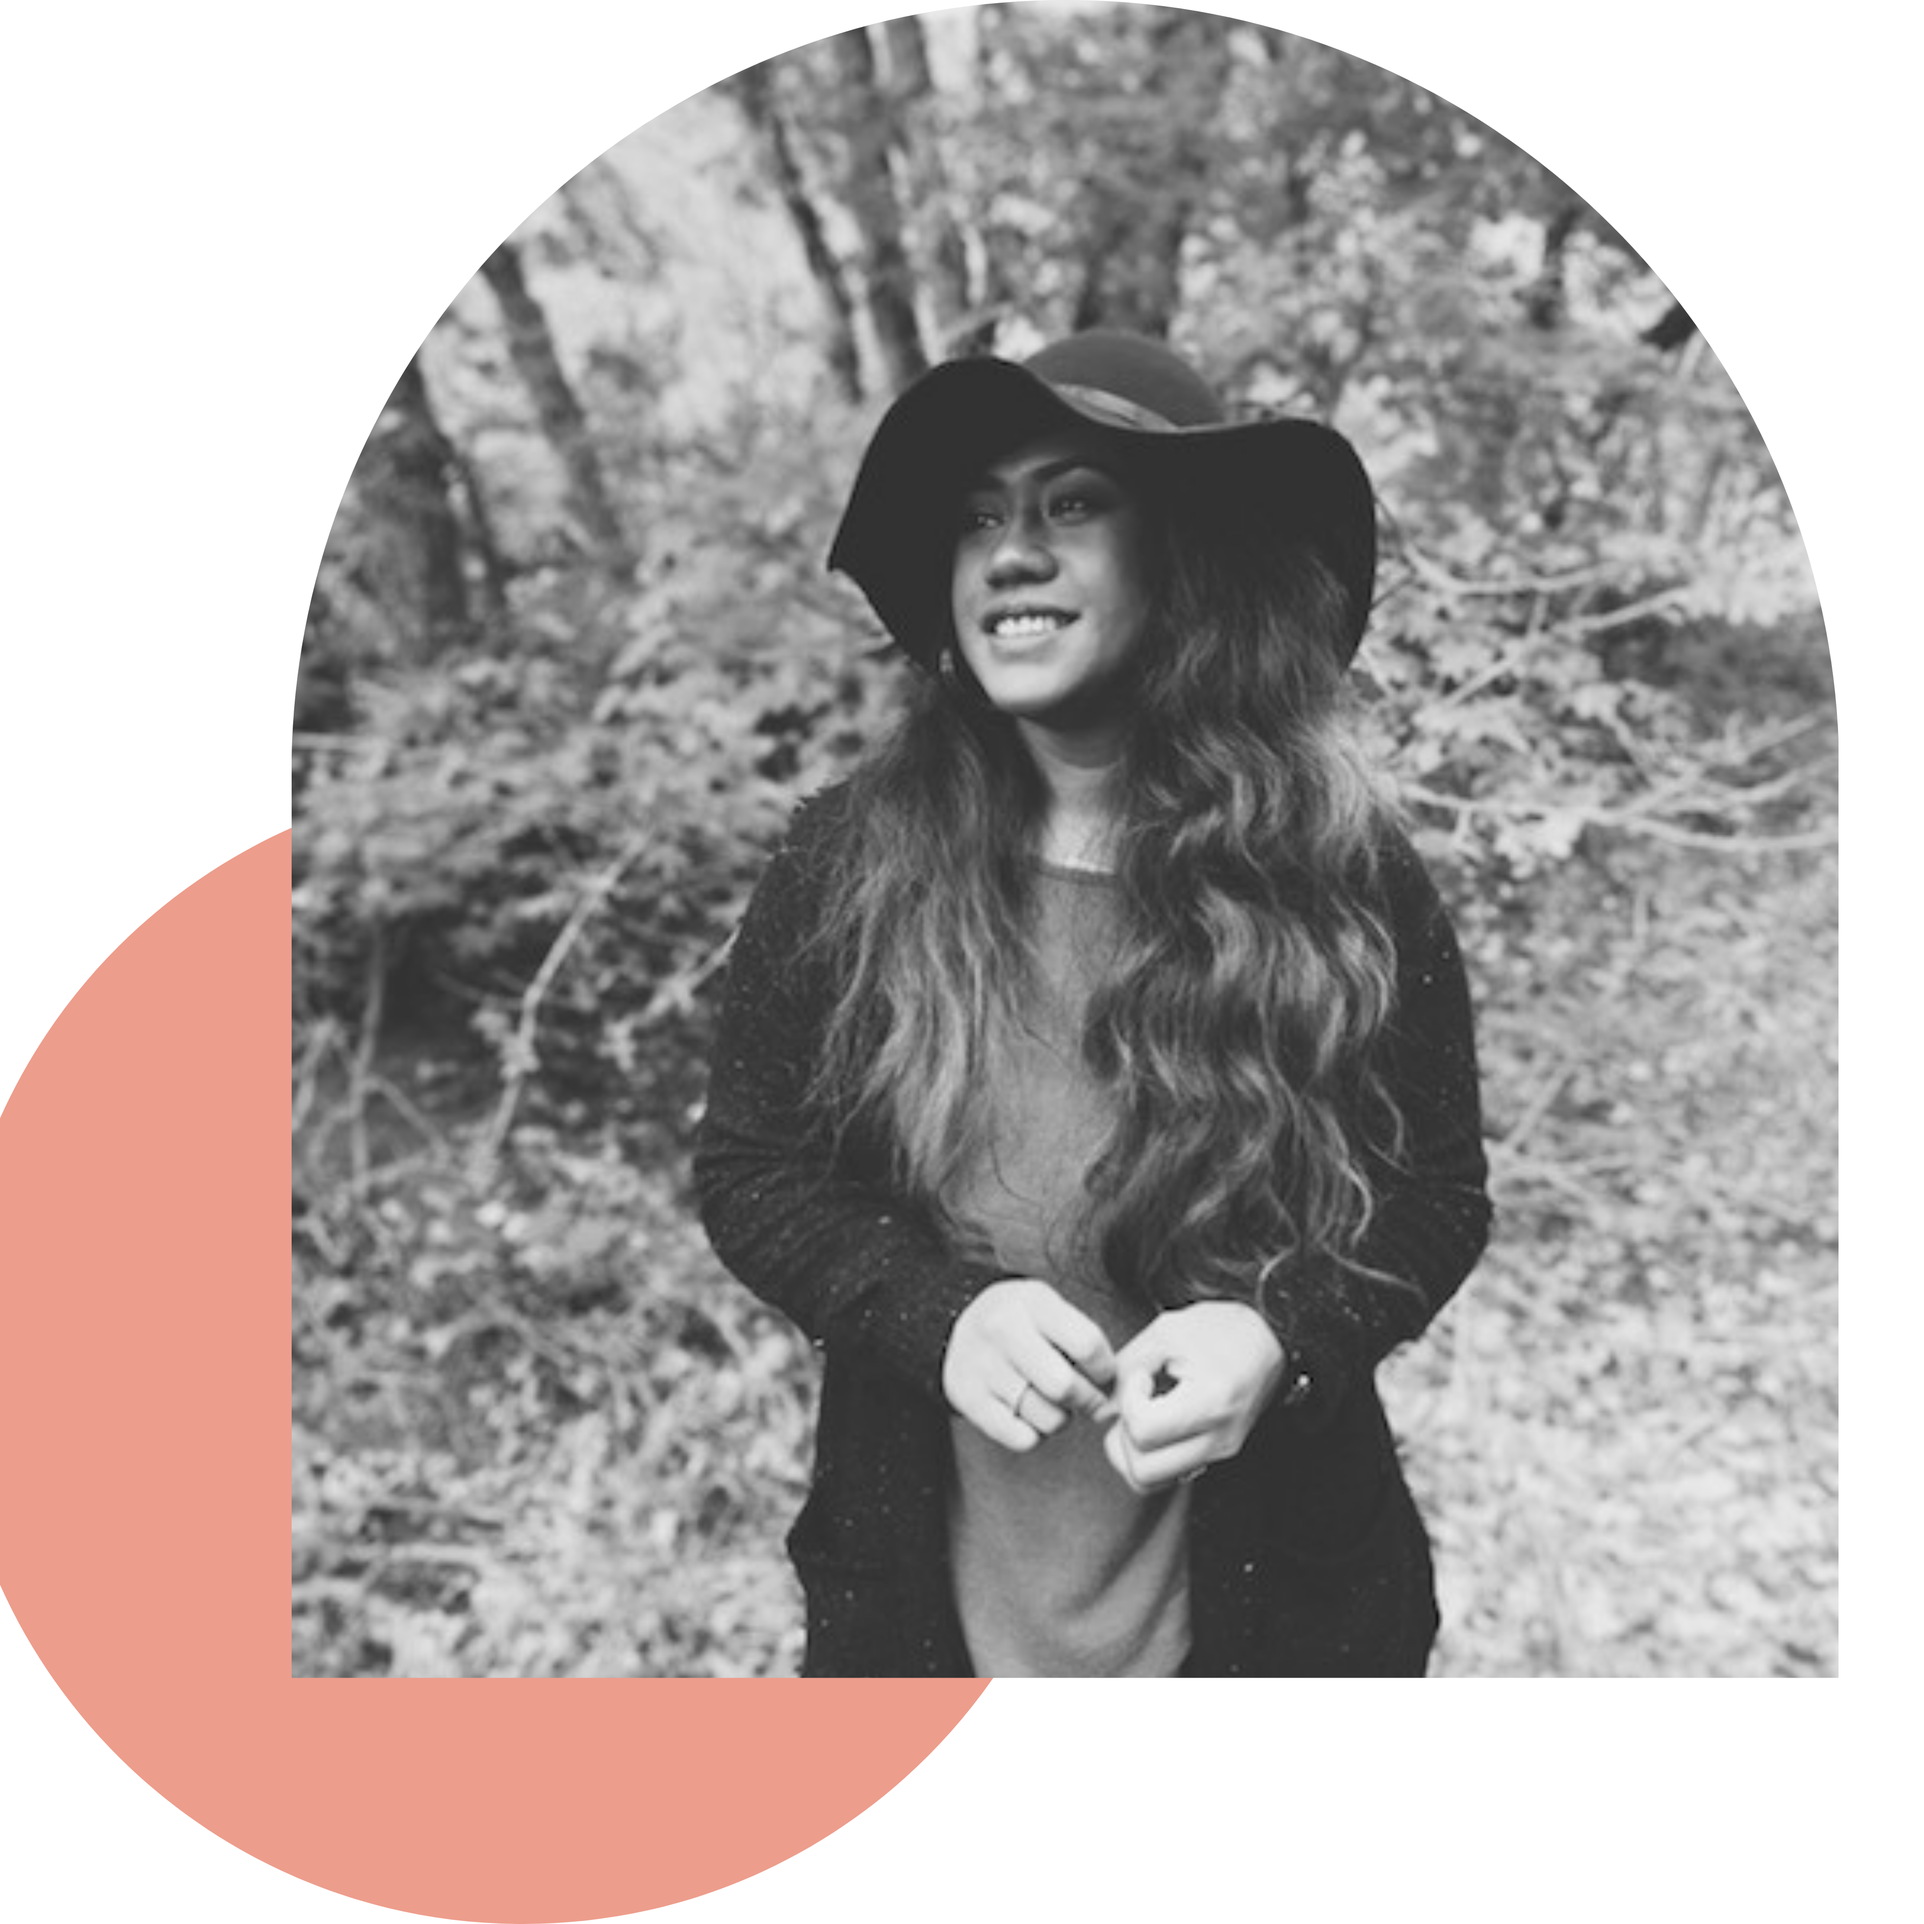
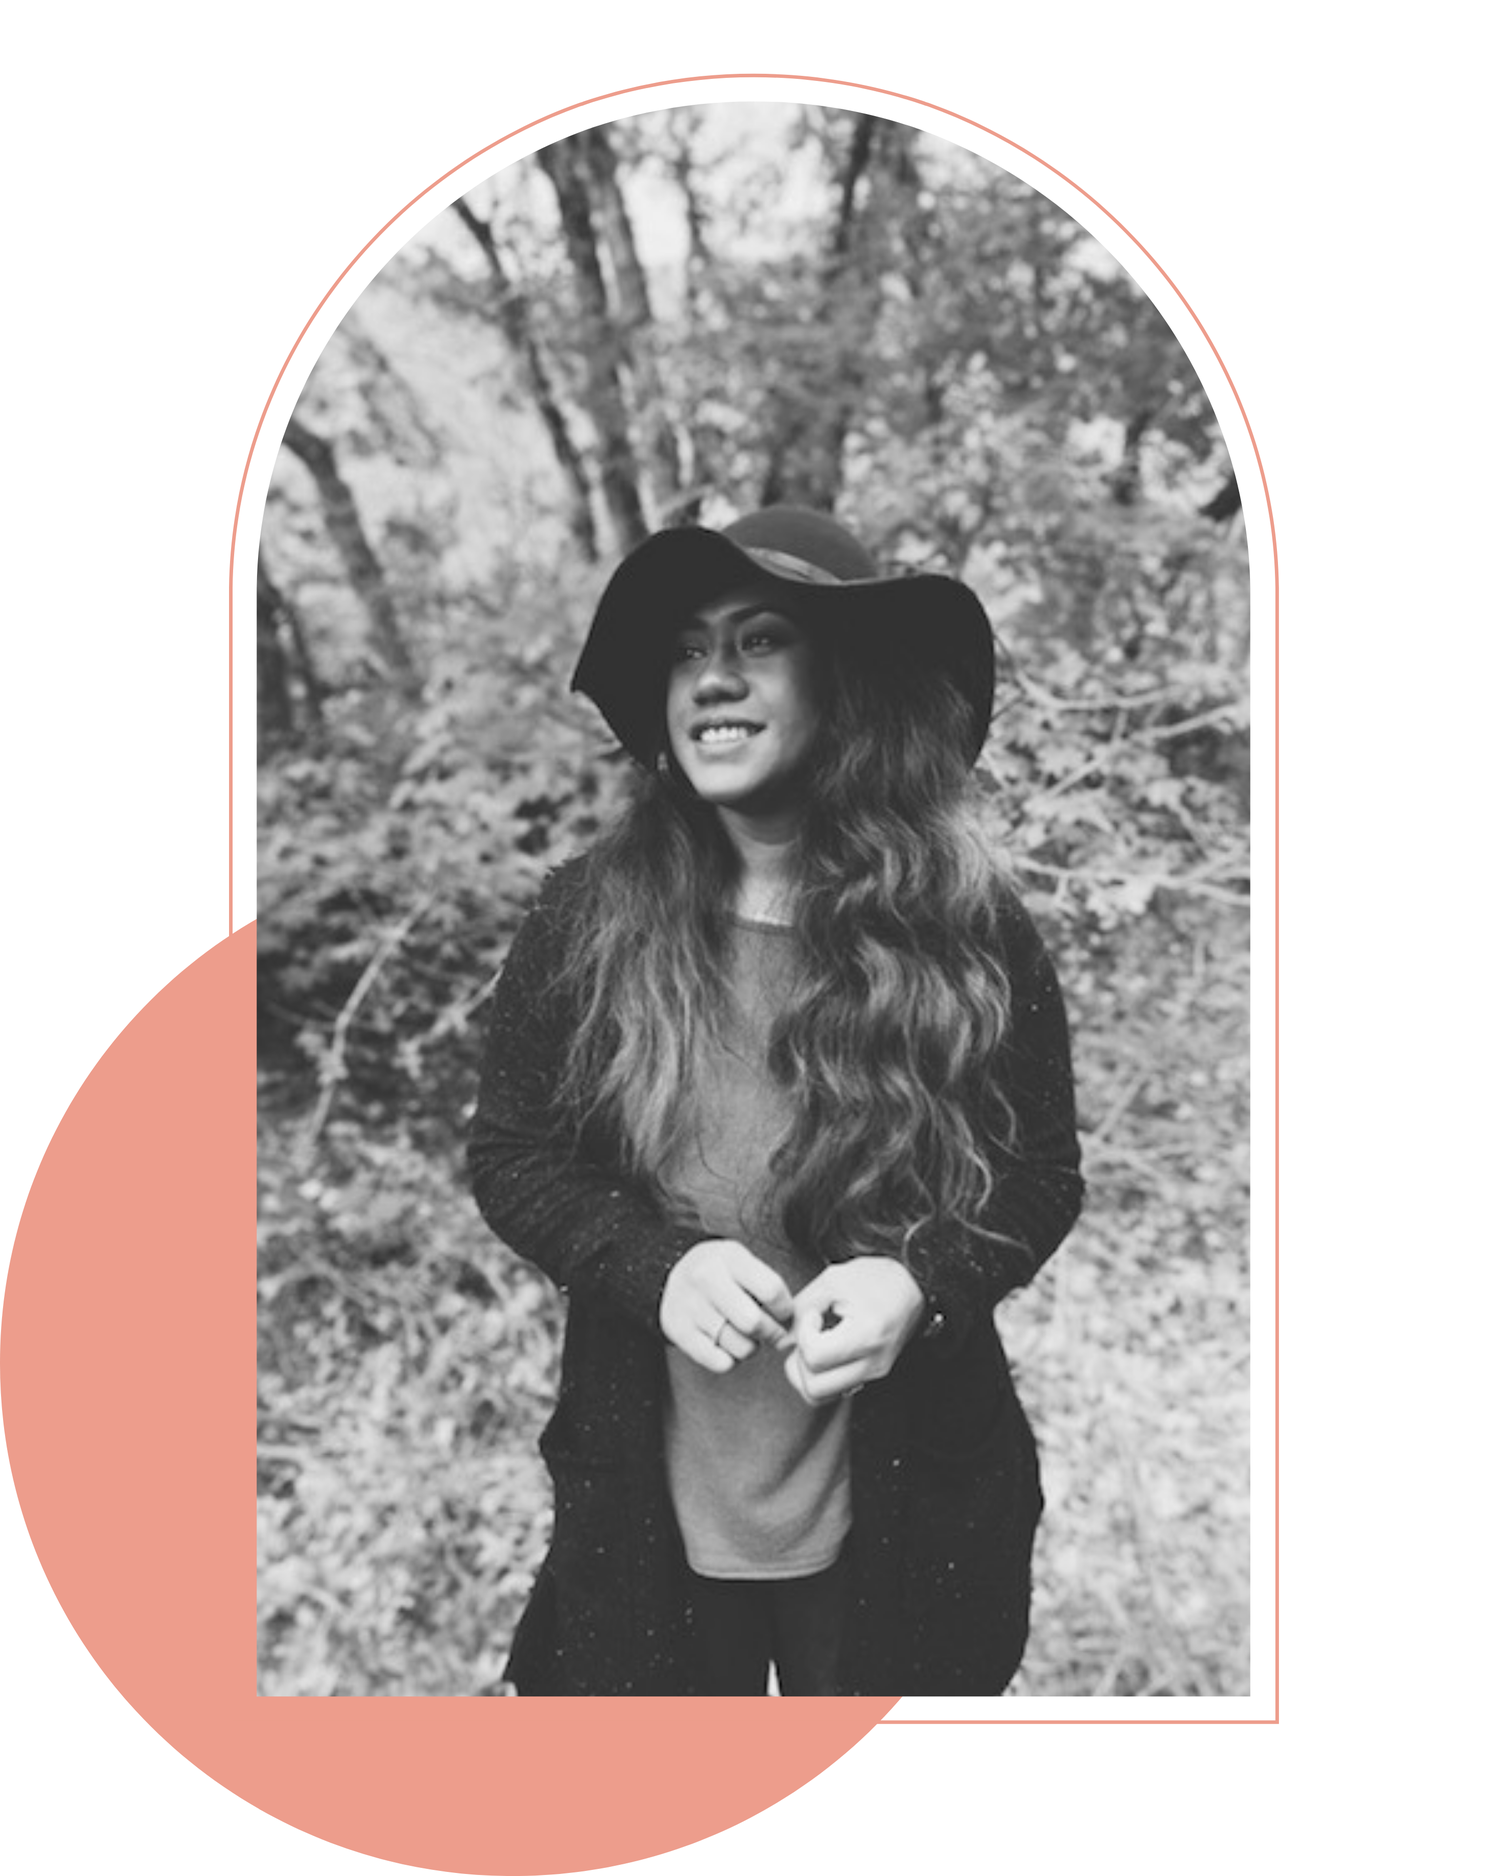
final presentation

diff --git a/index.html b/index.html
@@ -22,25 +22,35 @@
     <link
         href="https://fonts.googleapis.com/css2?family=Bebas+Neue&family=Lato:wght@900&family=Secular+One&display=swap"
         rel="stylesheet">
-
+    <link rel="preconnect" href="https://fonts.googleapis.com">
+    <link rel="preconnect" href="https://fonts.gstatic.com" crossorigin>
+    <link href="https://fonts.googleapis.com/css2?family=Dosis&display=swap" rel="stylesheet">
+    <script src="https://fontawesome.com/v5.15/icons/linkedin?style=brands"></script>
 </head>
 
 <body>
 
     <header class="header-wrapper">
+        <!-- ICON -->
+
         <div class="nav-center">
             <ul>
+
+                <image src="signature.png"></image>
+                <li class='active'><a href="https://www.linkedin.com/in/lindsay-wolfgramm-4b13a5188/"></a><i
+                        class="fab fa-linkedin"></i></a></li>
                 <li><a href="#"></a>HOME</li>
                 <li><a href="#"></a>ABOUT</li>
                 <li><a href="#"></a>SKILLS</li>
                 <li><a href="#"></a>CONTACT</li>
 
             </ul>
+
         </div>
         <div class="header">
-            <img src="LindsayArchPic.png" height="300px">
+            <img src="Fuschia.png" height="400px">
             <h1 style="color: #000;">Hello I'm Lindsay</h1>
-            <h2>An aspiring software developer</h2>
+            <h5>An aspiring software developer</h5>
         </div>
 
 
@@ -49,6 +59,7 @@
     <main class="homepage">
         <div class="top-heading">
             <h1>ABOUT ME</h1>
+            <img src="https://img.icons8.com/office/80/000000/horizontal-line.png" />
             <h3>HI THERE</h3>
 
             <p>I am mother of two wild boys,
@@ -58,29 +69,49 @@
         </div>
 
         <div class="center-about">
-            <h1>ABOUT</h1>
-            <img src="Fuschia.png" height="400px" width="400px">
+            <h1 style="color: black">AB</h1>
+            <h1 style="color:#F2F1F0;">OUT</h1>
+            <img src="LindsayArchPic.png" height="400px" width="400px">
         </div>
 
 
     </main>
-
-    <div class="lower-header">
+    <div class="quote">
+        <svg xmlns="http://www.w3.org/2000/svg" x="0px" y="0px" width="96" height="96" viewBox="0 0 172 172"
+            style=" fill:#000000;">
+            <g fill="none" fill-rule="nonzero" stroke="none" stroke-width="1" stroke-linecap="butt"
+                stroke-linejoin="miter" stroke-miterlimit="10" stroke-dasharray="" stroke-dashoffset="0"
+                font-family="none" font-weight="none" font-size="none" text-anchor="none"
+                style="mix-blend-mode: normal">
+                <path d="M0,172v-172h172v172z" fill="none"></path>
+                <g fill="#800020">
+                    <path
+                        d="M59.06201,32.22201c-0.66386,0.01714 -1.31879,0.15715 -1.93164,0.41292c0,0 -10.30189,4.19969 -20.01627,15.6141c-9.71439,11.4144 -19.19743,30.32423 -19.19743,59.25098c-0.00049,0.2623 0.01823,0.52429 0.05599,0.78385c-0.27285,8.24151 2.80756,16.24148 8.53727,22.17168c5.72972,5.9302 13.61905,9.28382 21.86507,9.29447c16.82167,0 30.45833,-13.63666 30.45833,-30.45833c0,-16.82167 -13.63666,-30.45833 -30.45833,-30.45833c-6.12587,0.00168 -12.10889,1.85049 -17.16781,5.30501c3.11299,-13.2702 8.64718,-22.51699 14.09538,-28.91862c8.20228,-9.63768 15.81706,-12.60465 15.81706,-12.60465c2.44301,-0.9368 3.85667,-3.49651 3.34853,-6.06316c-0.50814,-2.56665 -2.79048,-4.39462 -5.40615,-4.32991zM134.31201,32.22201c-0.66386,0.01714 -1.31879,0.15715 -1.93164,0.41292c0,0 -10.30189,4.19969 -20.01627,15.6141c-9.71439,11.4144 -19.19743,30.32423 -19.19743,59.25098c-0.00049,0.2623 0.01823,0.52429 0.05599,0.78385c-0.27285,8.24151 2.80756,16.24148 8.53727,22.17168c5.72972,5.9302 13.61905,9.28382 21.86507,9.29447c16.82167,0 30.45833,-13.63666 30.45833,-30.45833c0,-16.82167 -13.63666,-30.45833 -30.45833,-30.45833c-6.12587,0.00168 -12.10889,1.85049 -17.16781,5.30501c3.113,-13.2702 8.64719,-22.51699 14.09538,-28.91862c8.20228,-9.63768 15.81706,-12.60465 15.81706,-12.60465c2.44301,-0.9368 3.85667,-3.49651 3.34853,-6.06316c-0.50814,-2.56665 -2.79048,-4.39462 -5.40615,-4.32991z">
+                    </path>
+                </g>
+            </g>
+        </svg>
         <h1 class="features-font">"Accept no one's definition of your life; define yourself." -Harvey
             Fierstein
         </h1>
-
+    </div>
+    <div class="lower-header">
+        <img src="https://img.icons8.com/office/80/000000/horizontal-line.png" />
+        <h1 style="color: black">SKILLS</h1>
         <tr>
-            <td><img src="collage.png" height="270" width="370"></td>
-            <td><img src="books.jpg" height="270" width="370"></td>
-            <td><img src="coffee.jpg" height="270" width="360"></td>
+            <td><img src="collage.png" height="370" width="370"></td>
+            <td><img src="books.png" height="370" width="370"></td>
+            <td><img src="coffee.png" height="370" width="370"></td>
         </tr>
+
+
 
         <section class="features-section">
             <div class="columns-wrapper">
                 <div class="column">
                     <h1>CONTACT</h1>
                     <h2 style="color: #000;">Say Hello</h2>
+                    <img src="https://img.icons8.com/office/80/000000/horizontal-line.png" />
                     <div class="column">
                         <form action="/action_page.php">
                             <label for="Name">Your Name</label>
@@ -96,11 +127,9 @@
                 </div>
 
 
-
-
+            </div>
         </section>
-
-
+    </div>
 
 </body>
 

diff --git a/project.css b/project.css
@@ -1,10 +1,6 @@
 body {
 	background-color: #fff;
 	margin: 0;
-	/* display: flex;
-	width: auto;
-	flex-direction: row;
-	flex-wrap: wrap; */
 	font-family: "Lato", "Bebas Neue";
 }
 
@@ -12,56 +8,69 @@ h1, h2, h3, h4, h5, h6 {
 	font-family: "Lato", "Bebas Neue";
 }
 
+
 .header-wrapper {
-	background-image: url(logo.png);
-	background-size: 70rem;
+	
+	/* position: sticky; */
+	top: 0;
+	background-size: 90rem;
 	color: #D48C70;
-	width: 100%;
-	height: 200px;
+	height: auto;
 	text-align: center;
-	padding: 60px 100px;
+	padding: 20px 0px;
+	padding-top: inherit;
 	border-bottom: #E2A18B;
 }
 
 .header {
+	background-color:  #D0B49F;
+	background-size: auto;
 	display: flex;
-	justify-content: space-around;
+	justify-content: left;
+	flex-direction:inherit;
 	align-items: center;
+	font-size: x-large;
+	height: 15em;;
 }
-
 
 .center-about{
 	font-family: "Bebas Neue";
 	font-size: 80px;
-	color:#F2F1F0;
-	z-index: -1;
+	opacity: .8;	
 	display: flex;
 	justify-content: center;
 	align-items: center;
-	width: 15%;
+	width: 20%;
 	height: 5px;
 	margin-top: 10px;
-	margin-bottom: 1000px;
-	margin-left: 550px;
+	margin-left: 620px;
 	padding-left: 10rem;
-	padding-bottom: 100px;
 	
-
-
+}
+a[href*="linked.com"] {
+	background:url(https://www.linkedin.com/in/lindsay-wolfgramm-4b13a5188/) no-repeat left center;
+	padding-left:19px;
 }
 
-
 .nav-center{
-	width: 100vw;
 	display: flex;
-	justify-content: center;
-	align-items: center;
+	justify-content: left;
+	align-items:center;
+	width: 100%;
+	height: 3em;
+	background-color: #f6f3ee;
+
+	/* display: flex;
+	width: auto;
+	flex-direction: row;
+	flex-wrap: wrap; */
+
 	/* padding: 60px 100px;
 	margin-right: 500px;
 	margin-bottom: 500px;
 	margin-top: 0; */
 }
-ul{
+	 ul{
 	list-style-type: none;
 	margin: 0;
 	padding: 0;
@@ -78,37 +87,38 @@ li{
 }
 a{
 	z-index: 1;
-	color: #D48C70;
+	color: white;
 	text-decoration: none;
-	font-family: "Lato", "Bebas Neue";
+	font-family: 'Poppins',sans-serif;
+	font-weight: 500;
 	font-size: 18px;
 	padding: 10px 5px;
 }
-li:before{
+li::before {
 	content: "";
 	position: absolute;
 	height: 33.33%;
 	width: 0;
-	background-color:#E2A18B;
+	background-color: #E2A18B;
 	right: 0;
 	z-index: 0;
-	top:33.33%;
+	top: 33.33%;
 	transition: all 0.5s;
-
-}
-li:after{
+	opacity: .5;
+ }
+ li::after {
 	content: "";
 	position: absolute;
 	height: 33.33%;
 	width: 0;
-	background-color:#fff;
+	background-color: #E2A18B;
 	left: 0;
 	z-index: 0;
 	bottom: 0;
 	transition: all 0.5s;
-}
-
-a:before{
+	opacity: .5;
+ }
+ a::before {
 	position: absolute;
 	content: "";
 	height: 33.33%;
@@ -117,22 +127,22 @@ a:before{
 	bottom: 66.66%;
 	left: 0;
 	transition: all 0.5s;
-}
+	opacity: .5;
+ }
 li:hover:before,
-li:hover:after,
-li:hover a:before{
-	width: 100%;
+li:hover::after,
+li:hover a::before{
+   width: 100%;
 }
 
 
 .homepage {
-	background-color: #E4B7A0;
+	background-image: url(logo.png);
 	padding: 100px;
-	height: 300px;
-	width: 100%;
-	background-attachment: fixed;
+	height: 230px;
+	/* background-attachment: fixed;
 	background-size: cover;
-	background-position: center;
+	background-position: center; */
 }
 
 .top-heading {
@@ -149,28 +159,37 @@ li:hover a:before{
 }
 
 
-.bottom-heading {
+/* .bottom-heading {
 	color: #5C5756;
 	padding: 1px 20px;
 	margin-top: 15px;
 	width: 107px;
 	border-radius: 2px;
+} */
+.quote {
+	display: flex;
+	justify-content: center;
+	align-items: center;
+	height: 180%;
+	background-color: #735e59;
 }
 
 .lower-header {
-	background-color: #EDE7DC;
+	/* background-color: #d2b396; */
+	background-image: url(logo2.png);
 	font-family:  "Secular One", "Lato";
 	font-weight: bolder;
 	width: 100%;
-	color: #fff;
+	color: #000;
 	text-align: center;
 	align-content: center;
 
 }
 
 .features-section {
-	height: 400px;
-	background-color: #D0B49F;
+	/* background-image: url(logo3.png); */
+	background-size: 99px;
+	background-color:#cb8e7e;
 	border-top: 10px solid #fff;
 	display: flex;
 	justify-content: center;
@@ -183,7 +202,7 @@ li:hover a:before{
 .features-font {
 	font-family: "Lato";
 	font-weight: 500;
-	color: #800020;
+	color: #f6f3ee;
 }
 
 .columns-wrapper {
